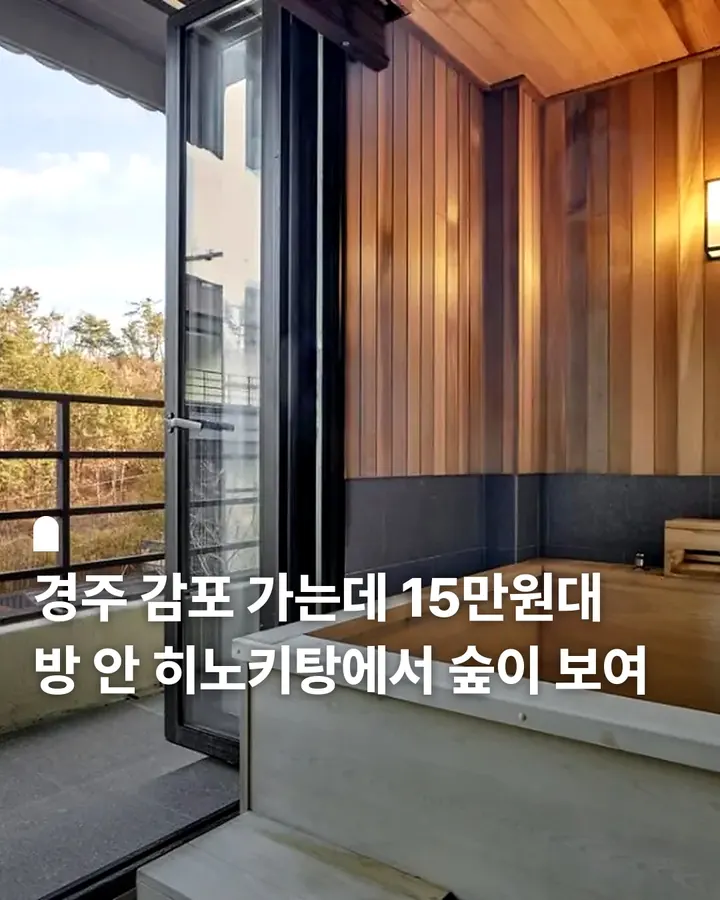
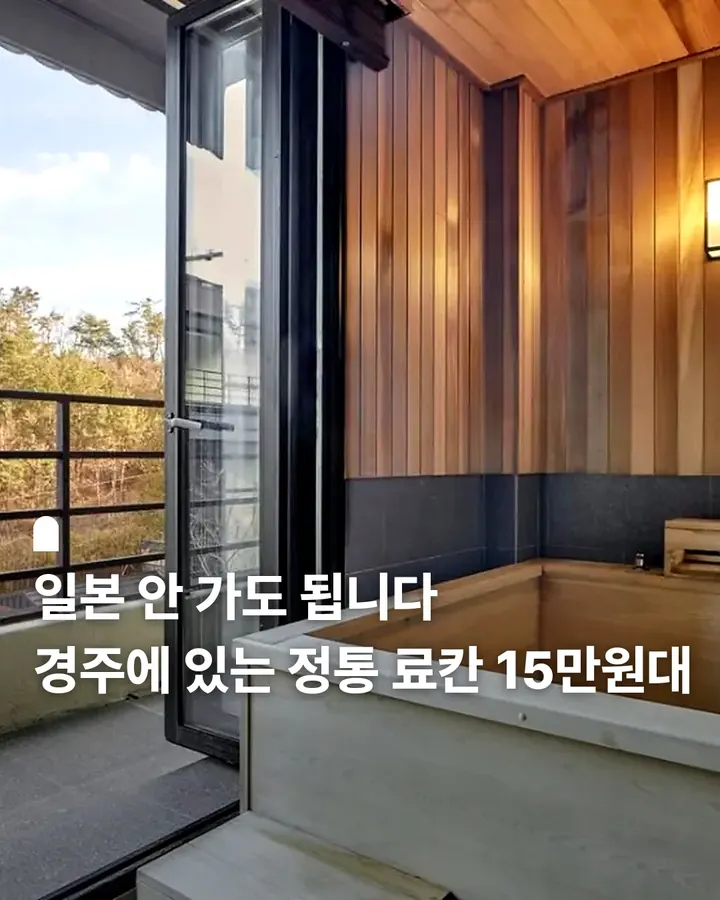
stay 1: 토모노야 호텔&료칸 경주

Changed region(s): [[0.0306, 0.6222, 0.9778, 0.7778]]

diff --git a/docs/index.html b/docs/index.html
@@ -106,7 +106,7 @@ html.shs-lock,html.shs-lock body{overflow:hidden}
 .mini .logo{width:15px;height:21px;margin:0}
 .detail{padding:4px 16px 24px}
 footer{padding:6px 18px 34px;font-size:11.5px;color:var(--sub);line-height:1.6;text-align:center}
-</style></head><body><div class="tools"><div class="bar"><a class="brand" href="./" aria-label="숨은숙소 메인"><svg class="logo" viewBox="0 0 34 47" aria-hidden="true"><path d="M0 17A17 17 0 0 1 34 17V47H0Z" fill="#343a2c"/><circle cx="17" cy="26" r="2.2" fill="#fff"/></svg>숨은숙소</a><input id="q" class="search" type="search" placeholder="지역, 숙소, 키즈풀… 검색" autocomplete="off"></div><div class="sels"><select id="rg" class="sel" aria-label="지역"><option value="">지역 전체</option><option value="서울·경기">서울·경기</option><option value="강원">강원</option><option value="충청">충청</option><option value="경상">경상</option><option value="전라">전라</option><option value="제주">제주</option></select><select id="th" class="sel" aria-label="종류"><option value="">종류 전체</option><option value="풀빌라">풀빌라</option><option value="키즈">키즈</option><option value="온천·스파">온천·스파</option><option value="오션뷰">오션뷰</option><option value="독채">독채</option><option value="한옥">한옥</option><option value="료칸">료칸</option><option value="글램핑">글램핑</option><option value="애견동반">애견동반</option><option value="가성비">가성비</option></select></div></div><h1 class="sr">숨은숙소 — 국내 감성숙소 추천 모음</h1><main><div class="count">전체 <b id="cnt">1곳</b> · 유명해지기 전에 가는 국내 숙소</div><div class="card" data-region="경상" data-tags="료칸,온천·스파" data-text="토모노야 호텔&amp;료칸 경주 경북 경주 감포 경상 료칸 온천·스파 국내 최초 정통 료칸 전 객실 히노끼 욕조 다다미 객실·야외 온수풀"><div class="galwrap"><div class="gal"><img src="img/1/01.webp" alt="토모노야 호텔&amp;료칸 경주 사진 1" width="720" height="900" decoding="async" loading="lazy"><img src="img/1/02.webp" alt="토모노야 호텔&amp;료칸 경주 사진 2" width="720" height="900" decoding="async" loading="lazy"><img src="img/1/03.webp" alt="토모노야 호텔&amp;료칸 경주 사진 3" width="720" height="900" decoding="async" loading="lazy"><img src="img/1/04.webp" alt="토모노야 호텔&amp;료칸 경주 사진 4" width="720" height="900" decoding="async" loading="lazy"><img src="img/1/05.webp" alt="토모노야 호텔&amp;료칸 경주 사진 5" width="720" height="900" decoding="async" loading="lazy"><img src="img/1/06.webp" alt="토모노야 호텔&amp;료칸 경주 사진 6" width="720" height="900" decoding="async" loading="lazy"><img src="img/1/07.webp" alt="토모노야 호텔&amp;료칸 경주 사진 7" width="720" height="900" decoding="async" loading="lazy"><img src="img/1/08.webp" alt="토모노야 호텔&amp;료칸 경주 사진 8" width="720" height="900" decoding="async" loading="lazy"><img src="img/1/09.webp" alt="토모노야 호텔&amp;료칸 경주 사진 9" width="720" height="900" decoding="async" loading="lazy"><img src="img/1/10.webp" alt="토모노야 호텔&amp;료칸 경주 사진 10" width="720" height="900" decoding="async" loading="lazy"><img src="img/1/11.webp" alt="토모노야 호텔&amp;료칸 경주 사진 11" width="720" height="900" decoding="async" loading="lazy"><img src="img/1/12.webp" alt="토모노야 호텔&amp;료칸 경주 사진 12" width="720" height="900" decoding="async" loading="lazy"><img src="img/1/13.webp" alt="토모노야 호텔&amp;료칸 경주 사진 13" width="720" height="900" decoding="async" loading="lazy"><img src="img/1/14.webp" alt="토모노야 호텔&amp;료칸 경주 사진 14" width="720" height="900" decoding="async" loading="lazy"></div><button class="arr prev" aria-label="이전 사진">‹</button><button class="arr next" aria-label="다음 사진">›</button><div class="pg"></div></div><div class="chead"><div class="crow"><div class="name">토모노야 호텔&amp;료칸 경주</div><div class="price">1박 15만원대~</div></div><div class="region">경북 경주 감포</div></div><div class="cardfoot"><a class="btn book" href="https://link.coupang.com/a/ieYeghyUQS" rel="sponsored nofollow noopener">쿠팡에서 예약하기</a><button class="share" aria-label="공유하기" data-url="https://sumeunstay.com/s/1" data-title="토모노야 호텔&amp;료칸 경주 — 숨은숙소" data-text="경북 경주 감포 · 국내 최초 정통 료칸 · 전 객실 히노끼 욕조" data-image="https://sumeunstay.com/img/1/share.jpg"><svg viewBox="0 0 24 24" width="20" height="20" aria-hidden="true" fill="none" stroke="currentColor" stroke-width="2" stroke-linecap="round" stroke-linejoin="round"><path d="M12 3v12"/><path d="M7 8l5-5 5 5"/><path d="M5 13v6a2 2 0 0 0 2 2h10a2 2 0 0 0 2-2v-6"/></svg></button></div><div class="cmore"><p class="disc" style="margin-top:6px">이 포스팅은 쿠팡 파트너스 활동의 일환으로, 이에 따른 일정액의 수수료를 제공받습니다.</p><div class="badges" style="margin-top:10px"><span class="no">01번</span><span class="tag">료칸</span><span class="tag">온천·스파</span></div><ul class="hl"><li>국내 최초 정통 료칸</li><li>전 객실 히노끼 욕조</li><li>다다미 객실·야외 온수풀</li></ul></div></div><button class="btn alt" id="more" style="display:none;width:100%;margin:4px 0 0;cursor:pointer;font:inherit;font-weight:700">숙소 더 보기</button><div class="empty" id="emp" style="display:none">조건에 맞는 숙소가 아직 없어요.<br>곧 더 올라와요!</div></main><footer>이 포스팅은 쿠팡 파트너스 활동의 일환으로, 이에 따른 일정액의 수수료를 제공받습니다.<br>© 숨은숙소 · instagram @sumeun.stay</footer><div class="shs" id="shs" hidden><div class="shs-dim" data-shs-close></div>
+</style></head><body><div class="tools"><div class="bar"><a class="brand" href="./" aria-label="숨은숙소 메인"><svg class="logo" viewBox="0 0 34 47" aria-hidden="true"><path d="M0 17A17 17 0 0 1 34 17V47H0Z" fill="#343a2c"/><circle cx="17" cy="26" r="2.2" fill="#fff"/></svg>숨은숙소</a><input id="q" class="search" type="search" placeholder="지역, 숙소, 키즈풀… 검색" autocomplete="off"></div><div class="sels"><select id="rg" class="sel" aria-label="지역"><option value="">지역 전체</option><option value="서울·경기">서울·경기</option><option value="강원">강원</option><option value="충청">충청</option><option value="경상">경상</option><option value="전라">전라</option><option value="제주">제주</option></select><select id="th" class="sel" aria-label="종류"><option value="">종류 전체</option><option value="풀빌라">풀빌라</option><option value="키즈">키즈</option><option value="온천·스파">온천·스파</option><option value="오션뷰">오션뷰</option><option value="독채">독채</option><option value="한옥">한옥</option><option value="료칸">료칸</option><option value="글램핑">글램핑</option><option value="애견동반">애견동반</option><option value="가성비">가성비</option></select></div></div><h1 class="sr">숨은숙소 — 국내 감성숙소 추천 모음</h1><main><div class="count">전체 <b id="cnt">1곳</b> · 유명해지기 전에 가는 국내 숙소</div><div class="card" data-region="경상" data-tags="료칸,온천·스파" data-text="토모노야 호텔&amp;료칸 경주 경북 경주 감포 경상 료칸 온천·스파 국내 최초 정통 료칸 전 객실 히노끼 욕조 다다미 객실·야외 온수풀"><div class="galwrap"><div class="gal"><img src="img/1/01.webp" alt="토모노야 호텔&amp;료칸 경주 사진 1" width="720" height="900" decoding="async" loading="lazy"><img src="img/1/02.webp" alt="토모노야 호텔&amp;료칸 경주 사진 2" width="720" height="900" decoding="async" loading="lazy"><img src="img/1/03.webp" alt="토모노야 호텔&amp;료칸 경주 사진 3" width="720" height="900" decoding="async" loading="lazy"><img src="img/1/04.webp" alt="토모노야 호텔&amp;료칸 경주 사진 4" width="720" height="900" decoding="async" loading="lazy"><img src="img/1/05.webp" alt="토모노야 호텔&amp;료칸 경주 사진 5" width="720" height="900" decoding="async" loading="lazy"><img src="img/1/06.webp" alt="토모노야 호텔&amp;료칸 경주 사진 6" width="720" height="900" decoding="async" loading="lazy"><img src="img/1/07.webp" alt="토모노야 호텔&amp;료칸 경주 사진 7" width="720" height="900" decoding="async" loading="lazy"><img src="img/1/08.webp" alt="토모노야 호텔&amp;료칸 경주 사진 8" width="720" height="900" decoding="async" loading="lazy"><img src="img/1/09.webp" alt="토모노야 호텔&amp;료칸 경주 사진 9" width="720" height="900" decoding="async" loading="lazy"><img src="img/1/10.webp" alt="토모노야 호텔&amp;료칸 경주 사진 10" width="720" height="900" decoding="async" loading="lazy"><img src="img/1/11.webp" alt="토모노야 호텔&amp;료칸 경주 사진 11" width="720" height="900" decoding="async" loading="lazy"><img src="img/1/12.webp" alt="토모노야 호텔&amp;료칸 경주 사진 12" width="720" height="900" decoding="async" loading="lazy"><img src="img/1/13.webp" alt="토모노야 호텔&amp;료칸 경주 사진 13" width="720" height="900" decoding="async" loading="lazy"><img src="img/1/14.webp" alt="토모노야 호텔&amp;료칸 경주 사진 14" width="720" height="900" decoding="async" loading="lazy"></div><button class="arr prev" aria-label="이전 사진">‹</button><button class="arr next" aria-label="다음 사진">›</button><div class="pg"></div></div><div class="chead"><div class="crow"><div class="name">토모노야 호텔&amp;료칸 경주</div><div class="price">1박 15만원대~</div></div><div class="region">경북 경주 감포</div></div><div class="cardfoot"><a class="btn book" href="https://link.coupang.com/a/ieZO5AyYCW" rel="sponsored nofollow noopener">쿠팡에서 예약하기</a><button class="share" aria-label="공유하기" data-url="https://sumeunstay.com/s/1" data-title="토모노야 호텔&amp;료칸 경주 — 숨은숙소" data-text="경북 경주 감포 · 국내 최초 정통 료칸 · 전 객실 히노끼 욕조" data-image="https://sumeunstay.com/img/1/share.jpg"><svg viewBox="0 0 24 24" width="20" height="20" aria-hidden="true" fill="none" stroke="currentColor" stroke-width="2" stroke-linecap="round" stroke-linejoin="round"><path d="M12 3v12"/><path d="M7 8l5-5 5 5"/><path d="M5 13v6a2 2 0 0 0 2 2h10a2 2 0 0 0 2-2v-6"/></svg></button></div><div class="cmore"><p class="disc" style="margin-top:6px">이 포스팅은 쿠팡 파트너스 활동의 일환으로, 이에 따른 일정액의 수수료를 제공받습니다.</p><div class="badges" style="margin-top:10px"><span class="no">01번</span><span class="tag">료칸</span><span class="tag">온천·스파</span></div><ul class="hl"><li>국내 최초 정통 료칸</li><li>전 객실 히노끼 욕조</li><li>다다미 객실·야외 온수풀</li></ul></div></div><button class="btn alt" id="more" style="display:none;width:100%;margin:4px 0 0;cursor:pointer;font:inherit;font-weight:700">숙소 더 보기</button><div class="empty" id="emp" style="display:none">조건에 맞는 숙소가 아직 없어요.<br>곧 더 올라와요!</div></main><footer>이 포스팅은 쿠팡 파트너스 활동의 일환으로, 이에 따른 일정액의 수수료를 제공받습니다.<br>© 숨은숙소 · instagram @sumeun.stay</footer><div class="shs" id="shs" hidden><div class="shs-dim" data-shs-close></div>
 <div class="shs-box" role="dialog" aria-modal="true" aria-labelledby="shs-h">
 <div class="shs-head"><b id="shs-h">공유하기</b><button type="button" class="shs-x" data-shs-close aria-label="닫기">✕</button></div>
 <p class="shs-title" id="shs-title"></p>

diff --git a/docs/s/1.html b/docs/s/1.html
@@ -106,7 +106,7 @@ html.shs-lock,html.shs-lock body{overflow:hidden}
 .mini .logo{width:15px;height:21px;margin:0}
 .detail{padding:4px 16px 24px}
 footer{padding:6px 18px 34px;font-size:11.5px;color:var(--sub);line-height:1.6;text-align:center}
-</style></head><body><div class="topbar"><a class="back" href="../">← 숙소 전체 보기</a><a class="mini" href="../" aria-label="숨은숙소 메인"><svg class="logo" viewBox="0 0 34 47" aria-hidden="true"><path d="M0 17A17 17 0 0 1 34 17V47H0Z" fill="#343a2c"/><circle cx="17" cy="26" r="2.2" fill="#fff"/></svg><b>숨은숙소</b></a></div><div style="margin-top:10px"><div class="galwrap"><div class="gal"><img src="../img/1/01.webp" alt="토모노야 호텔&amp;료칸 경주 사진 1" width="720" height="900" decoding="async" loading="eager"><img src="../img/1/02.webp" alt="토모노야 호텔&amp;료칸 경주 사진 2" width="720" height="900" decoding="async" loading="lazy"><img src="../img/1/03.webp" alt="토모노야 호텔&amp;료칸 경주 사진 3" width="720" height="900" decoding="async" loading="lazy"><img src="../img/1/04.webp" alt="토모노야 호텔&amp;료칸 경주 사진 4" width="720" height="900" decoding="async" loading="lazy"><img src="../img/1/05.webp" alt="토모노야 호텔&amp;료칸 경주 사진 5" width="720" height="900" decoding="async" loading="lazy"><img src="../img/1/06.webp" alt="토모노야 호텔&amp;료칸 경주 사진 6" width="720" height="900" decoding="async" loading="lazy"><img src="../img/1/07.webp" alt="토모노야 호텔&amp;료칸 경주 사진 7" width="720" height="900" decoding="async" loading="lazy"><img src="../img/1/08.webp" alt="토모노야 호텔&amp;료칸 경주 사진 8" width="720" height="900" decoding="async" loading="lazy"><img src="../img/1/09.webp" alt="토모노야 호텔&amp;료칸 경주 사진 9" width="720" height="900" decoding="async" loading="lazy"><img src="../img/1/10.webp" alt="토모노야 호텔&amp;료칸 경주 사진 10" width="720" height="900" decoding="async" loading="lazy"><img src="../img/1/11.webp" alt="토모노야 호텔&amp;료칸 경주 사진 11" width="720" height="900" decoding="async" loading="lazy"><img src="../img/1/12.webp" alt="토모노야 호텔&amp;료칸 경주 사진 12" width="720" height="900" decoding="async" loading="lazy"><img src="../img/1/13.webp" alt="토모노야 호텔&amp;료칸 경주 사진 13" width="720" height="900" decoding="async" loading="lazy"><img src="../img/1/14.webp" alt="토모노야 호텔&amp;료칸 경주 사진 14" width="720" height="900" decoding="async" loading="lazy"></div><button class="arr prev" aria-label="이전 사진">‹</button><button class="arr next" aria-label="다음 사진">›</button><div class="pg"></div></div></div><div class="detail" style="padding-top:16px"><div class="badges"><span class="no">01번</span><span class="tag">료칸</span><span class="tag">온천·스파</span></div><h1 class="name">토모노야 호텔&amp;료칸 경주</h1><div class="region">경북 경주 감포</div><ul class="hl"><li>국내 최초 정통 료칸</li><li>전 객실 히노끼 욕조</li><li>다다미 객실·야외 온수풀</li></ul><div class="price">1박 15만원대~</div><a class="btn" href="https://link.coupang.com/a/ieYeghyUQS" rel="sponsored nofollow noopener">쿠팡에서 예약하기</a><p class="disc" style="margin-top:8px">이 포스팅은 쿠팡 파트너스 활동의 일환으로, 이에 따른 일정액의 수수료를 제공받습니다.</p><button class="share wide" aria-label="공유하기" data-url="https://sumeunstay.com/s/1" data-title="토모노야 호텔&amp;료칸 경주 — 숨은숙소" data-text="경북 경주 감포 · 국내 최초 정통 료칸 · 전 객실 히노끼 욕조" data-image="https://sumeunstay.com/img/1/share.jpg"><svg viewBox="0 0 24 24" width="20" height="20" aria-hidden="true" fill="none" stroke="currentColor" stroke-width="2" stroke-linecap="round" stroke-linejoin="round"><path d="M12 3v12"/><path d="M7 8l5-5 5 5"/><path d="M5 13v6a2 2 0 0 0 2 2h10a2 2 0 0 0 2-2v-6"/></svg>이 숙소 공유하기</button></div><footer>이 포스팅은 쿠팡 파트너스 활동의 일환으로, 이에 따른 일정액의 수수료를 제공받습니다.<br>© 숨은숙소 · instagram @sumeun.stay</footer><div class="shs" id="shs" hidden><div class="shs-dim" data-shs-close></div>
+</style></head><body><div class="topbar"><a class="back" href="../">← 숙소 전체 보기</a><a class="mini" href="../" aria-label="숨은숙소 메인"><svg class="logo" viewBox="0 0 34 47" aria-hidden="true"><path d="M0 17A17 17 0 0 1 34 17V47H0Z" fill="#343a2c"/><circle cx="17" cy="26" r="2.2" fill="#fff"/></svg><b>숨은숙소</b></a></div><div style="margin-top:10px"><div class="galwrap"><div class="gal"><img src="../img/1/01.webp" alt="토모노야 호텔&amp;료칸 경주 사진 1" width="720" height="900" decoding="async" loading="eager"><img src="../img/1/02.webp" alt="토모노야 호텔&amp;료칸 경주 사진 2" width="720" height="900" decoding="async" loading="lazy"><img src="../img/1/03.webp" alt="토모노야 호텔&amp;료칸 경주 사진 3" width="720" height="900" decoding="async" loading="lazy"><img src="../img/1/04.webp" alt="토모노야 호텔&amp;료칸 경주 사진 4" width="720" height="900" decoding="async" loading="lazy"><img src="../img/1/05.webp" alt="토모노야 호텔&amp;료칸 경주 사진 5" width="720" height="900" decoding="async" loading="lazy"><img src="../img/1/06.webp" alt="토모노야 호텔&amp;료칸 경주 사진 6" width="720" height="900" decoding="async" loading="lazy"><img src="../img/1/07.webp" alt="토모노야 호텔&amp;료칸 경주 사진 7" width="720" height="900" decoding="async" loading="lazy"><img src="../img/1/08.webp" alt="토모노야 호텔&amp;료칸 경주 사진 8" width="720" height="900" decoding="async" loading="lazy"><img src="../img/1/09.webp" alt="토모노야 호텔&amp;료칸 경주 사진 9" width="720" height="900" decoding="async" loading="lazy"><img src="../img/1/10.webp" alt="토모노야 호텔&amp;료칸 경주 사진 10" width="720" height="900" decoding="async" loading="lazy"><img src="../img/1/11.webp" alt="토모노야 호텔&amp;료칸 경주 사진 11" width="720" height="900" decoding="async" loading="lazy"><img src="../img/1/12.webp" alt="토모노야 호텔&amp;료칸 경주 사진 12" width="720" height="900" decoding="async" loading="lazy"><img src="../img/1/13.webp" alt="토모노야 호텔&amp;료칸 경주 사진 13" width="720" height="900" decoding="async" loading="lazy"><img src="../img/1/14.webp" alt="토모노야 호텔&amp;료칸 경주 사진 14" width="720" height="900" decoding="async" loading="lazy"></div><button class="arr prev" aria-label="이전 사진">‹</button><button class="arr next" aria-label="다음 사진">›</button><div class="pg"></div></div></div><div class="detail" style="padding-top:16px"><div class="badges"><span class="no">01번</span><span class="tag">료칸</span><span class="tag">온천·스파</span></div><h1 class="name">토모노야 호텔&amp;료칸 경주</h1><div class="region">경북 경주 감포</div><ul class="hl"><li>국내 최초 정통 료칸</li><li>전 객실 히노끼 욕조</li><li>다다미 객실·야외 온수풀</li></ul><div class="price">1박 15만원대~</div><a class="btn" href="https://link.coupang.com/a/ieZO5AyYCW" rel="sponsored nofollow noopener">쿠팡에서 예약하기</a><p class="disc" style="margin-top:8px">이 포스팅은 쿠팡 파트너스 활동의 일환으로, 이에 따른 일정액의 수수료를 제공받습니다.</p><button class="share wide" aria-label="공유하기" data-url="https://sumeunstay.com/s/1" data-title="토모노야 호텔&amp;료칸 경주 — 숨은숙소" data-text="경북 경주 감포 · 국내 최초 정통 료칸 · 전 객실 히노끼 욕조" data-image="https://sumeunstay.com/img/1/share.jpg"><svg viewBox="0 0 24 24" width="20" height="20" aria-hidden="true" fill="none" stroke="currentColor" stroke-width="2" stroke-linecap="round" stroke-linejoin="round"><path d="M12 3v12"/><path d="M7 8l5-5 5 5"/><path d="M5 13v6a2 2 0 0 0 2 2h10a2 2 0 0 0 2-2v-6"/></svg>이 숙소 공유하기</button></div><footer>이 포스팅은 쿠팡 파트너스 활동의 일환으로, 이에 따른 일정액의 수수료를 제공받습니다.<br>© 숨은숙소 · instagram @sumeun.stay</footer><div class="shs" id="shs" hidden><div class="shs-dim" data-shs-close></div>
 <div class="shs-box" role="dialog" aria-modal="true" aria-labelledby="shs-h">
 <div class="shs-head"><b id="shs-h">공유하기</b><button type="button" class="shs-x" data-shs-close aria-label="닫기">✕</button></div>
 <p class="shs-title" id="shs-title"></p>
